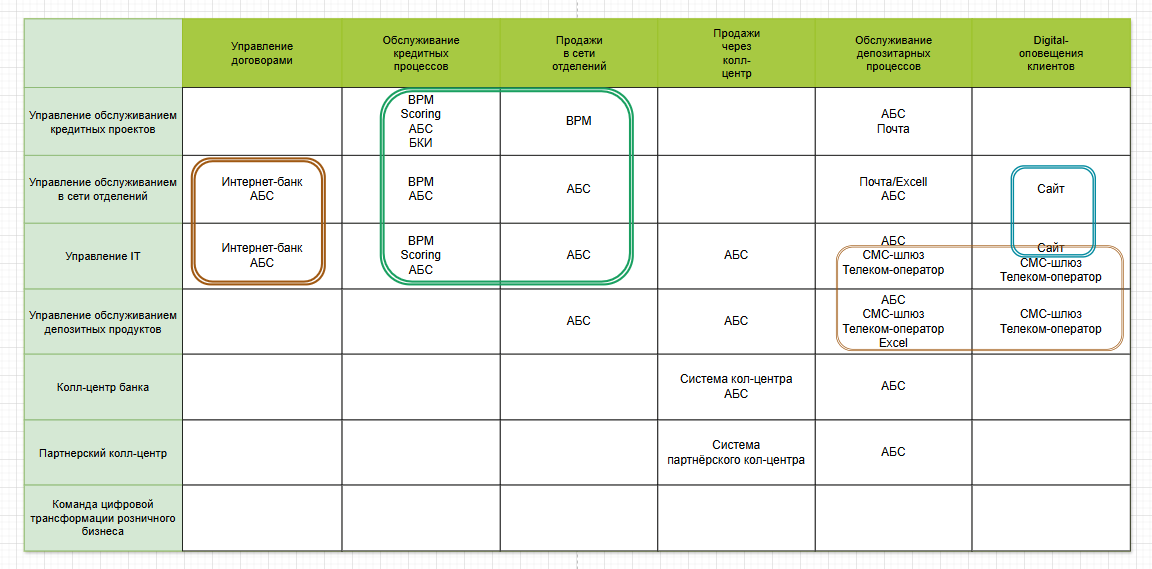
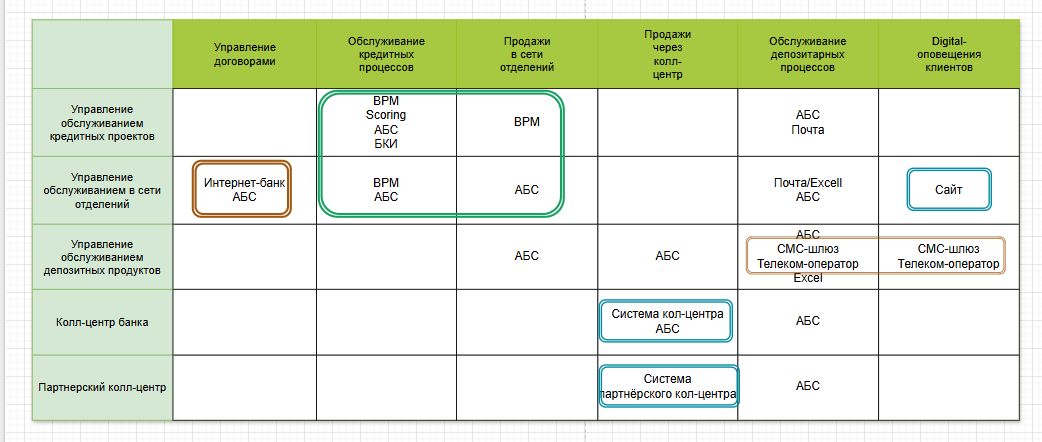
Task2

diff --git a/Task2/FURPS_tobe.md b/Task2/FURPS_tobe.md
@@ -1,0 +1,41 @@
+| Код | Требования                         | Комментарий  |
+|-----|------------------------------------|--------------|
+| F   | **Функциональные (Functionality)**     |              |
+| F1  | На сайте новый клиент видит список доступных депозитов с актуальными ставками |              |
+| F2  | Клиент может подать заявку на открытие депозита. Операцию необходимо будет подтвердить с помощью СМС-кода   |              |
+| F3  | Клиент видит список доступных депозитов с актуальными ставками и персонализированные ставки лично для него   |              |
+| F4  | Клиент может подать заявку на открытие депозита по персональным условиям    |              |
+| F5  | Сотрудники как бэк-офиса депозитов, так и бэк-офиса кредитов должны иметь возможность работать с данными ставок    |  Стоит реализовать в АБС            |
+| F6  | Клиент должен получить СМС-уведомления после подтверждения размера ставки и открытия депозита     |              |
+| F7  | На сайте новый клиент видит предложение открыть кредит по некоторой ставке    |              |
+| F8  | Клиент может подать заявку на кредит на сайте. Операцию необходимо будет подтвердить с помощью СМС-кода  |              |
+| F9  | Если клиент ещё заполнит паспортные данные, он должен сразу получить решение об одобрении или неодобрении ему кредита  |              |
+| F10 | В интернет-банке клиент видит список доступных кредитов с актуальными условиями так же, как и на сайте  |              |
+| F11 | Клиенту может выводиться предодобренное предложение по кредиту  |              |
+| F12 | Клиент информируется по СМС об изменении статуса заявки на кредит  |              |
+| F13 | Заявки на кредит по предодобренным предложениям должны обрабатываться сотрудниками в течение того же рабочего дня  |              |
+| U   | **Удобство использования (Usability)** |              |
+| U1  | Интерфейс работы должен быть максимально удобным для клиента                               |              |
+| U2  | Нужно придерживаться системы дизайна для приложений, которая принята в компании. Пользователи при работе должны видеть привычные цвета и брендированные элементы                                |              |
+| R   | **Надёжность (Reliability)**          |              |
+| R1  | Данные с сайта необходимо защищать с помощью механизма шифрования трафика.    |              |
+| R2  | В интернет-банке данные при передаче также надо защитить каким-то механизмом шифрования    |              |
+| R3  | Сайт и интернет-банк должны работать 24/7 и быть доступны в 99,9% случаев                                |              |
+| R4  |  Система кредитного скоринга не должна выполнять процессы по предрасчетам скорингов в рабочее время   |              |
+| R5  | Онлайн-подача заявок не должна напрямую интегрироваться с АБС, т.к. база данных АБС системы уже перегружена. Расширение количества продуктов может поставить под угрозу работоспособность банка   |  Нужна асинхронная интеграция с АБС. Подойдет Kafka |
+| P   | **Производительность (Performance)**   |              |
+| P1  | Отклик по всем операциям должен быть максимально быстрым и занимать миллисекунды. Сейчас справочные данные загружаются дольше секунды | Стоит добавить новую БД для интернет банка (и сайта)  |
+| P2  | В случае сбоев в ЦОД необходимо, чтобы сервисы интернет-банка были доступны и выдерживали требуемую нагрузку. Нужно поддержать резервирование через второй ЦОД   |              |
+| P3  | Заявки на кредит по предодобренным предложениям будут обрабатываться сотрудниками в течение того же рабочего дня - Сейчас это сделать невозможно, АБС не выдержит |    |
+| P4  | Нужно избежать прямой работы интернет-банка с API АБС в процессе кредитования  |              |
+|  P5 | Нужна периодическая синхронизация между BPM и АБС  |  Стоит реализовать публикацию событий из АБС в Kafka. Это позволит быстрее принимать решения по кредитным заявкам в BPM  |
+| S   | **Поддерживаемость (Supportability)**  |              |
+| S1  | Cтавки по депозитам сейчас не ведутся нигде, кроме XLS-файлов. Добавить интеграцию с АБС |  |
+| S2  | Можно попробовать микросервисную архитектуру для депозитов  |              |
+| S3  | Для очереди сообщений стоит использовать Kafka   |              |
+| S4  | Стоит использовать базы данных MS SQL и Oracle - Уже используются в банке  |   |
+| +R  | **+ Ограничения (Restrictions)**      |              |
+| +R1  | Функционал работы с СМС реализован в ядре системы. Он требует доработки со стороны подрядчика, но этого лучше избежать. Реализовать такой бизнес-функционал можно силами команды разработки банка  |              |
+| +R2  | Текущая версия интернет банка несовместима с Kafka - Требуется обновление    |   |
+| +R3  | Нужно предусмотреть разработку документации для дальнейшего расширения системы  |              |
+| +R4  | АБС может масштабироваться только вертикально, из-за своей базы данных.  |              |

diff --git a/Task2/FURPS_template.md b/Task2/FURPS_template.md
@@ -1,0 +1,20 @@
+| Код | Требования                         | Комментарий  |
+|-----|------------------------------------|--------------|
+| F   | Функциональные (Functionality)     |              |
+|     | ...                                |              |
+|     | ...                                |              |
+| U   | Удобство использования (Usability) |              |
+|     | ...                                |              |
+|     | ...                                |              |
+| R   | Надёжность (Reliability)           |              |
+|     | ...                                |              |
+|     | ...                                |              |
+| P   | Производительность (Performance)   |              |
+|     | ...                                |              |
+|     | ...                                |              |
+| S   | Поддерживаемость (Supportability)  |              |
+|     | ...                                |              |
+|     | ...                                |              |
+| +R  | + Ограничения (Restrictions)       |              |
+|     | ...                                |              |
+|     | ...                                |              |

diff --git a/Task2/README.md b/Task2/README.md
@@ -1,0 +1,10 @@
+# Задание
+
+Команда трансформации просит вас обобщить весь набор требований в формате FURPS+ таблицы:
+1. Выделите архитектурно-значимые требования. В ходе работы учитывайте не только контекст из задания, но и информацию о системах компании из блока «IT-ландшафт компании».
+2. По возможности добавьте дополнительные требования, которые кажутся вам важными и могут повлиять на решение. Напишите обоснование для таких требований в поле «Комментарий».
+
+# Решение
+
+[FURPS+](/Task2/FURPS_tobe.md)
+
